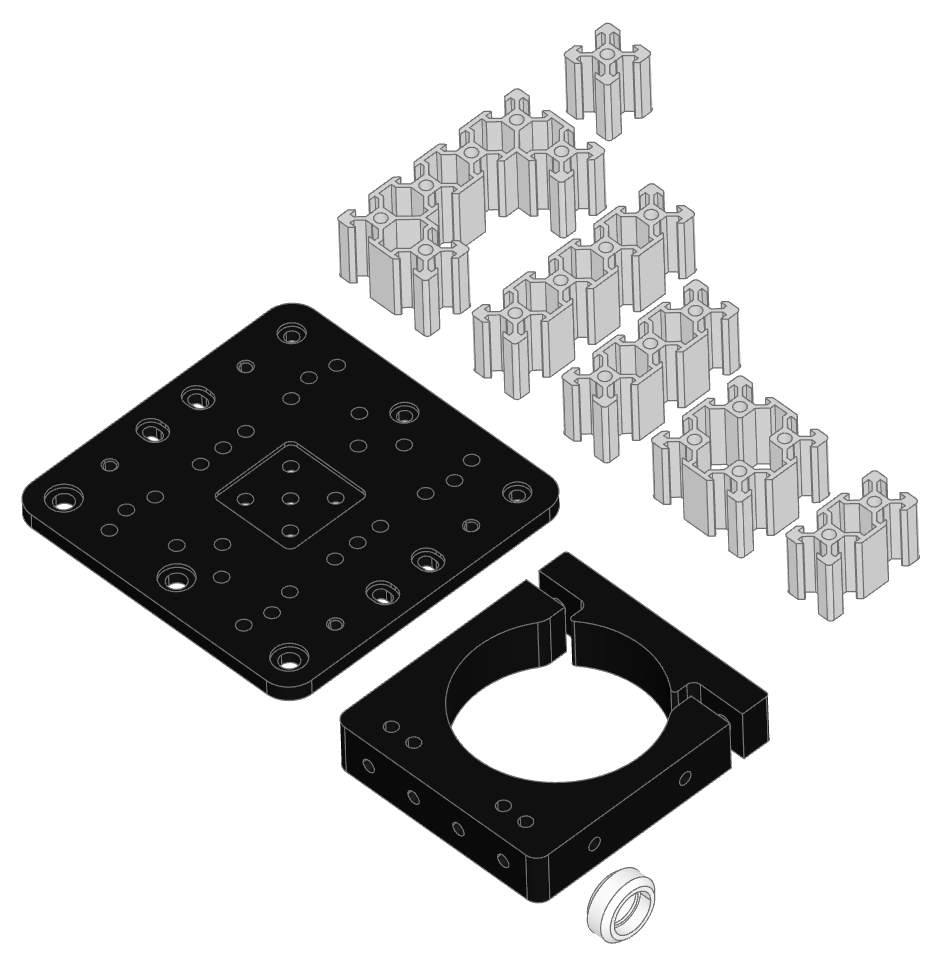
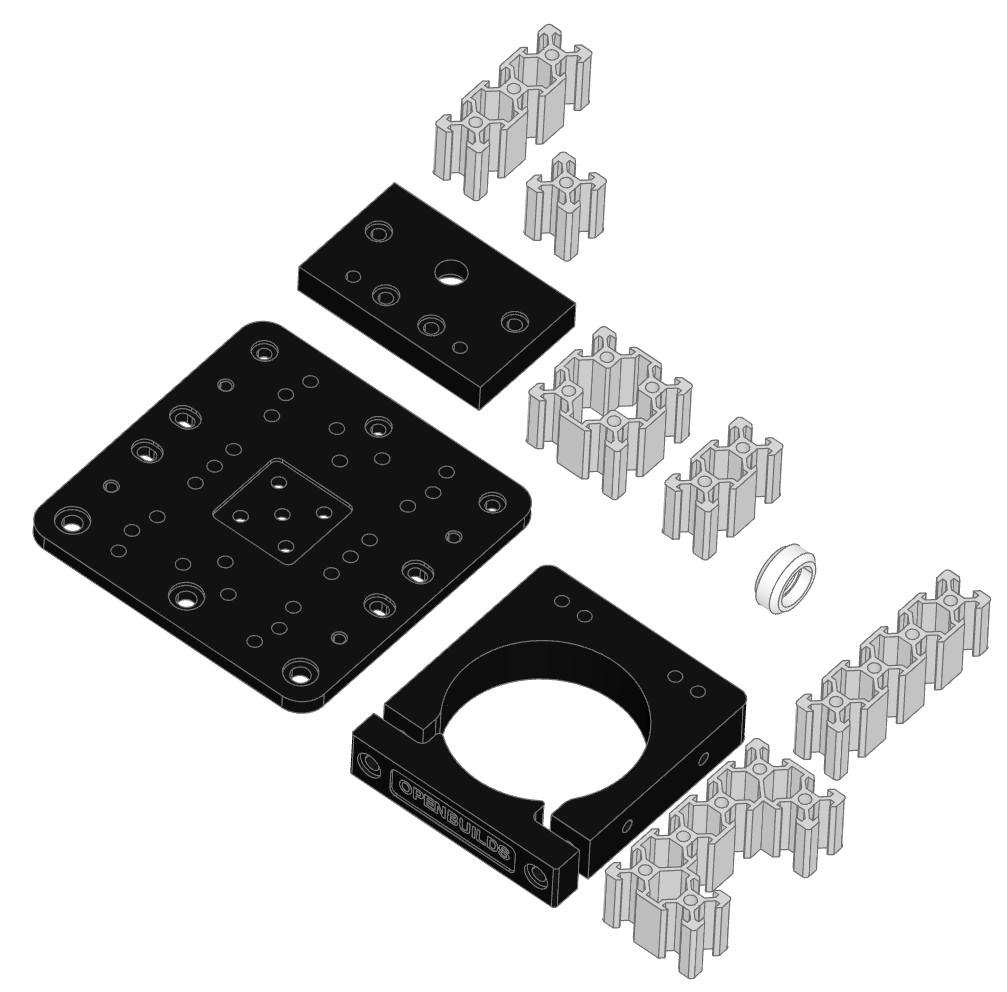
Added CBeamEndMount

diff --git a/src/bd_warehouse/open_builds.py b/src/bd_warehouse/open_builds.py
@@ -35,6 +35,63 @@ from bd_warehouse.fastener import SocketHeadCapScrew, ThreadedHole
 CAVITY_RADIUS = 2.3 * MM
 FILLET_RADIUS = 1.5 * MM
 
+m5 = SocketHeadCapScrew("M5-0.8", 20 * MM)  # Used to create threaded holes
+
+
+class CBeamEndMount(BasePartObject):
+    """CBeamEndMount
+
+    Ensure seamless integration of your motor with the C-Beam Linear Rail using the
+    versatile C-Beam End Mount. Designed with pre-threaded holes and a bearing recess
+    for lead screw transmission, this mount also features additional countersunk holes
+    for flush mounting, making it an excellent choice for various projects.
+
+    Product Features:
+        - Pre-tapped holes
+        - Countersunk holes
+        - Bearing recess for lead screw transmission
+
+    Args:
+        rotation (RotationLike, optional): angles to rotate about axes. Defaults to (0, 0, 0).
+        align (Union[Align, tuple[Align, Align, Align]], optional): align min, center,
+            or max of object. Defaults to (Align.CENTER, Align.CENTER, Align.MIN).
+        mode (Mode, optional): combine mode. Defaults to Mode.ADD.
+    """
+
+    _applies_to = [BuildPart._tag]
+
+    def __init__(
+        self,
+        rotation: RotationLike = (0, 0, 0),
+        align: Union[None, Align, tuple[Align, Align, Align]] = (
+            Align.CENTER,
+            Align.CENTER,
+            Align.MIN,
+        ),
+        mode: Mode = Mode.ADD,
+    ):
+
+        with BuildPart() as plate:
+            Box(80, 50, 12)
+            with Locations(Location((0, 7.4, -6), (0, 1, 0), 180)):
+                CounterBoreHole(5.588, 8.05, 4.5)
+            with Locations((0, 8.9 - 25, 6)):
+                with GridLocations(47.14, 0, 2, 1):
+                    ThreadedHole(m5, counter_sunk=False)
+            with Locations((0, 10 - 25, 6)):
+                with GridLocations(20, 0, 2, 1):
+                    CounterBoreHole(2.6, 4.6, 1.55)
+            with Locations((0, 5, 6)):
+                with GridLocations(60, 0, 2, 1):
+                    CounterBoreHole(2.6, 4.6, 1.55)
+            with Locations(Plane(plate.faces().sort_by(Axis.Y)[-1], x_dir=(1, 0, 0))):
+                with GridLocations(20, 0, 2, 1):
+                    ThreadedHole(m5, counter_sunk=False, depth=14 * MM)
+
+        super().__init__(plate.part, rotation, align, mode)
+        self.label = "CBeamEndMount"
+        self.color = Color(0x020202)
+
 
 class CBeamLinearRailProfile(BaseSketchObject):
     """Sketch Object: OpenBuilds C Beam Linear Rail Profile
@@ -683,9 +740,10 @@ if __name__ == "__main__":
     show(
         pack(
             [
+                CBeamEndMount(),
                 CBeamLinearRail(25),
                 CBeamGantryPlateXLarge(),
-                RouterSpindleMount(),
+                RouterSpindleMount().rotate(Axis.Z, 180),
                 VSlotLinearRail("20x20", 25),
                 VSlotLinearRail("20x40", 25),
                 VSlotLinearRail("20x60", 25),

diff --git a/docs/openbuilds.rst b/docs/openbuilds.rst
@@ -19,6 +19,7 @@ Here are classes/parts provided:
 
 .. note:: All Joints are currently experimental and subject to change
 
+.. autoclass:: CBeamEndMount
 .. autoclass:: CBeamGantryPlateXLarge
 .. autoclass:: CBeamLinearRail
 .. autoclass:: CBeamLinearRailProfile
